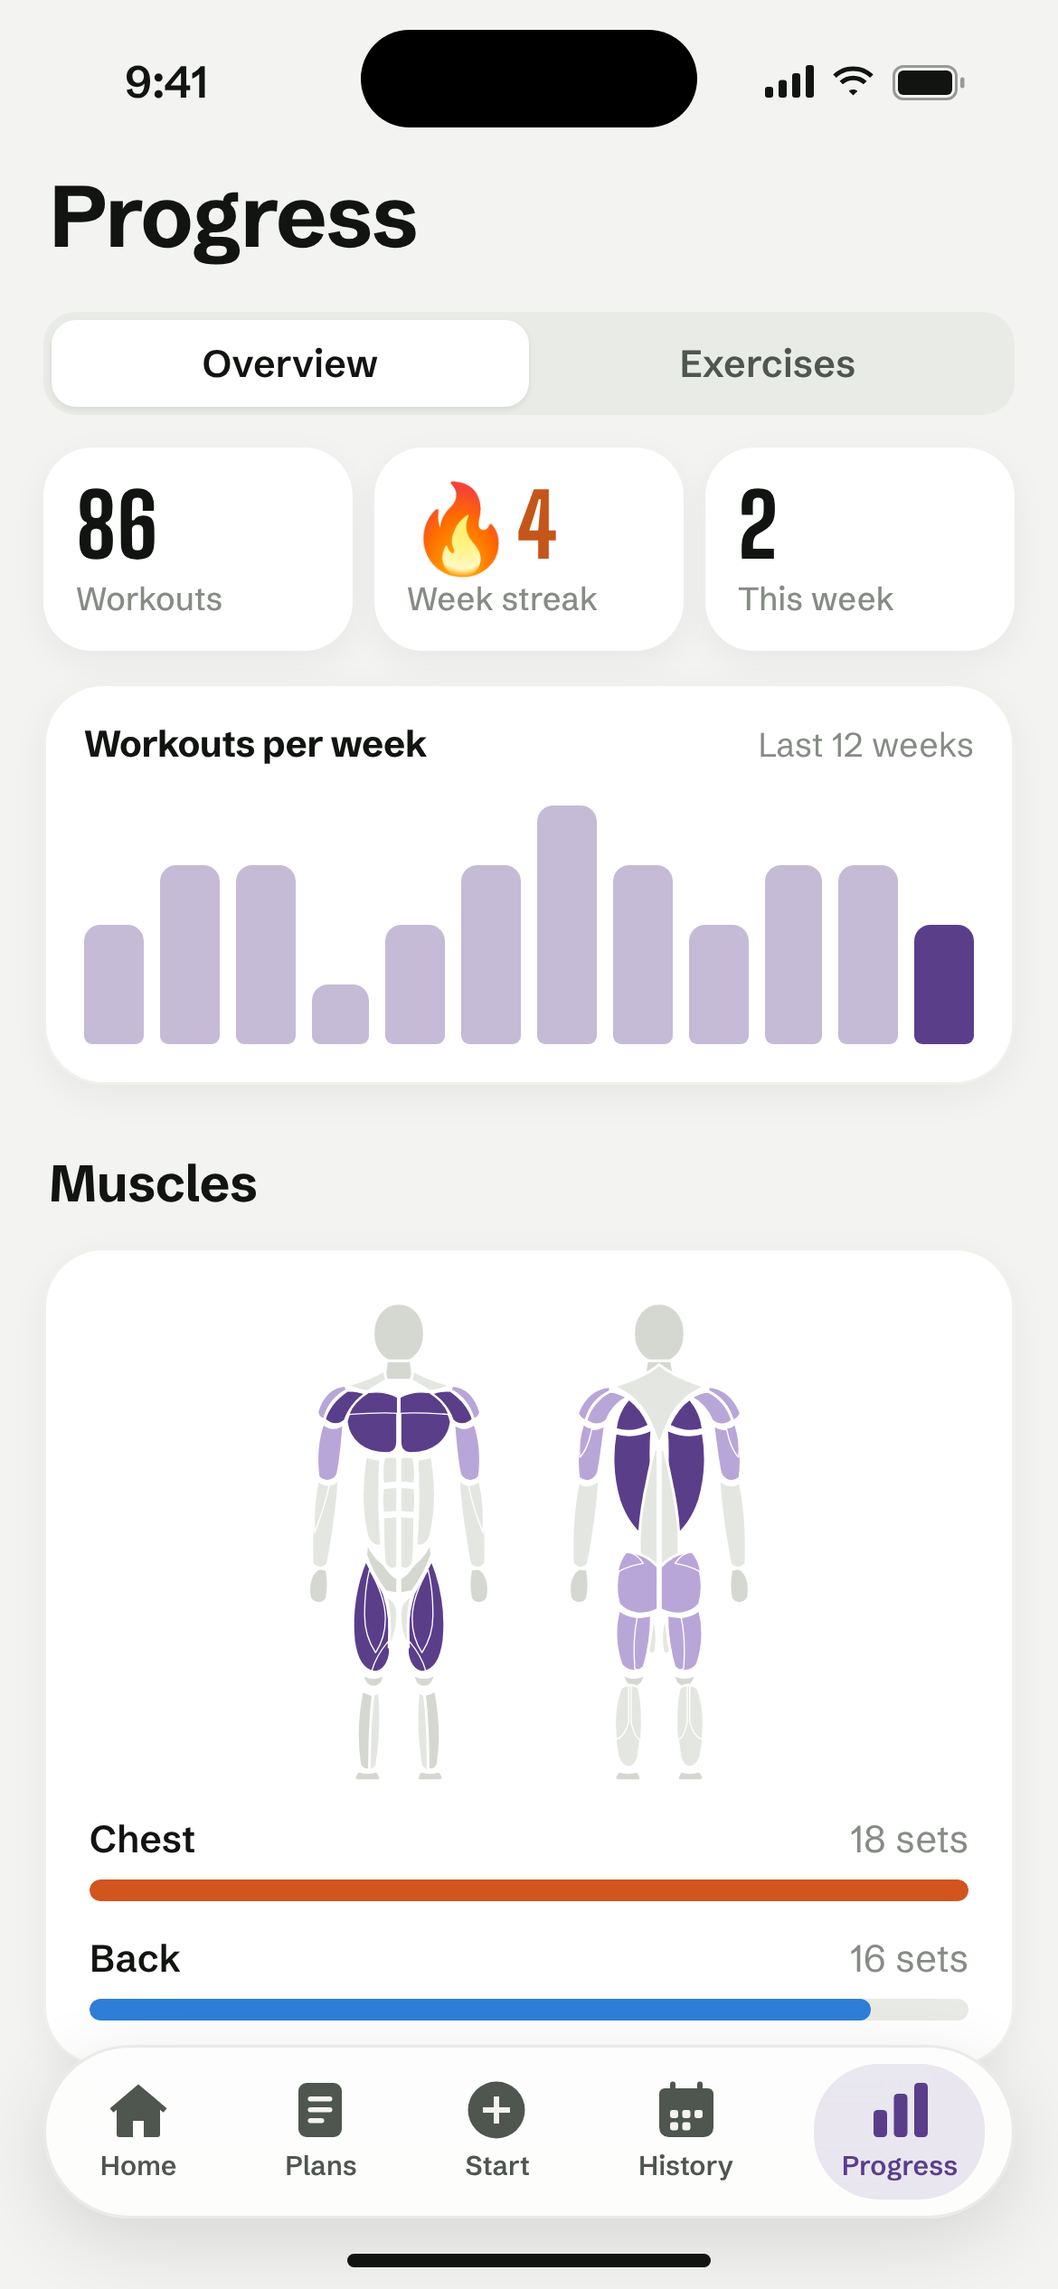
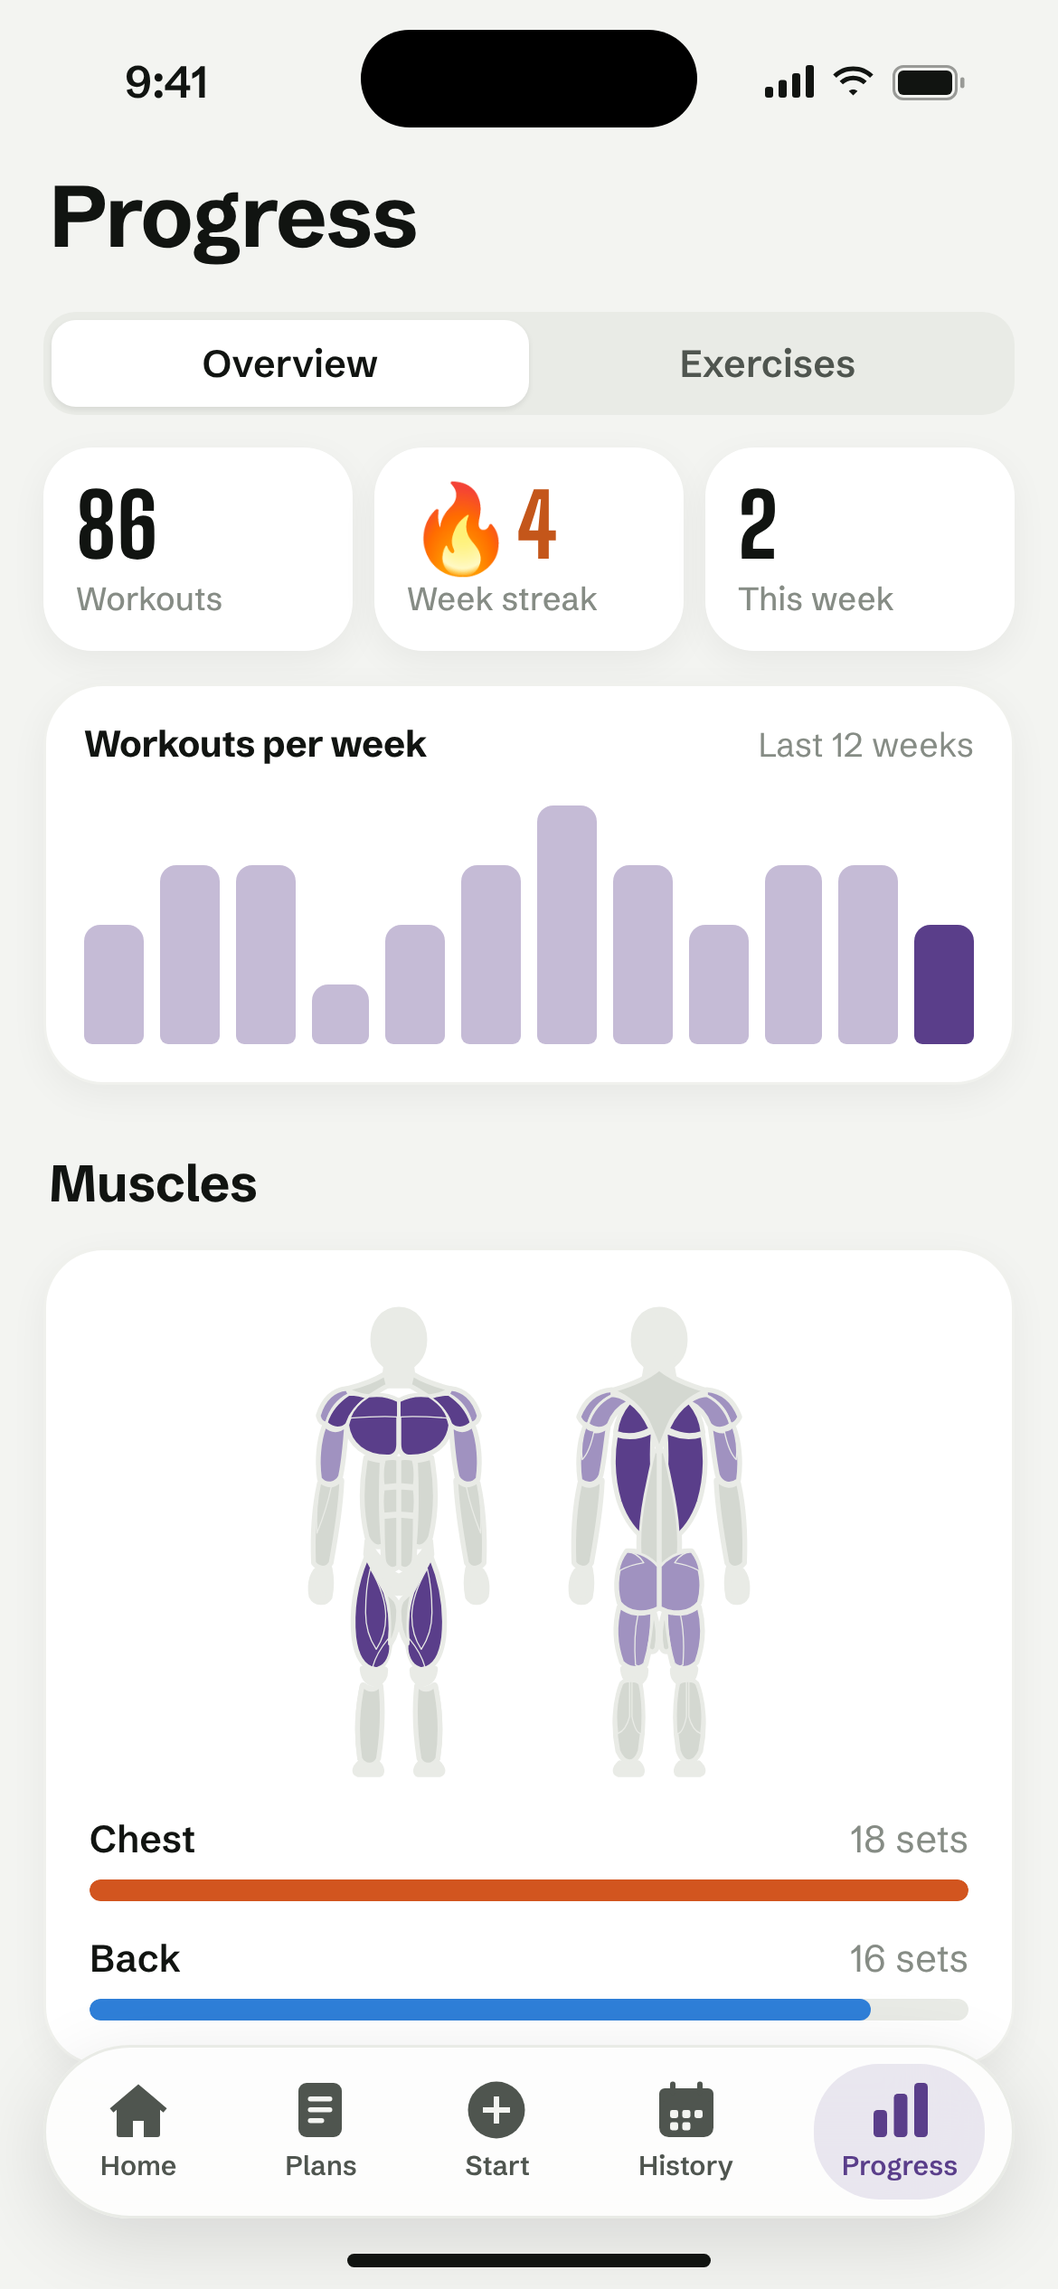
Remake the muscle view: one-piece body figure, accent shades per role
Muscles worked card gets a larger figure, sets bars and tap-to-highlight.
Mockups re-rendered.

Changed region(s): [[0.5231, 0.5928, 0.7077, 0.78], [0.2769, 0.5928, 0.4615, 0.78]]

diff --git a/Sources/Tally/Exercises/WorkoutMuscles.swift b/Sources/Tally/Exercises/WorkoutMuscles.swift
@@ -48,70 +48,117 @@ private extension MuscleRole {
     }
 }
 
-/// Front and back figure for a workout, beside the muscles it hits and how many sets each got.
+/// The workout's muscles on a large front and back figure, with a ranked list of sets per muscle
+/// underneath. Tapping a muscle on the figure or in the list picks it out on both.
 struct WorkoutMusclesCard: View {
     @Environment(GymStore.self) private var gym
     let workout: Workout
-    /// Colour of the gaps between muscles; match the background behind the card.
-    var gap: Color = Theme.card
+
+    @State private var selected: Muscle?
+    @State private var showingAll = false
+
+    /// Rows shown before "Show all".
+    private let collapsedCount = 5
 
     var body: some View {
         let summary = WorkoutMuscles(workout, gym: gym)
         if !summary.entries.isEmpty {
-            VStack(alignment: .leading, spacing: 12) {
-                Text("Muscles worked").eyebrow(11)
-                HStack(alignment: .top, spacing: 14) {
-                    VStack(alignment: .leading, spacing: 7) {
-                        ForEach(summary.entries.prefix(7)) { entry in
-                            row(entry)
-                        }
-                        if summary.entries.count > 7 {
-                            Text("+\(summary.entries.count - 7) more")
-                                .font(Typo.body(12.5))
-                                .foregroundStyle(Theme.ink3)
-                        }
-                    }
-                    .frame(maxWidth: .infinity, alignment: .leading)
-                    AnatomyFigure(
-                        primary: summary.muscles(.primary),
-                        secondary: summary.muscles(.secondary),
-                        tertiary: summary.muscles(.tertiary),
-                        gap: gap,
-                        labels: true
-                    )
-                    .frame(height: 170)
-                    .accessibilityHidden(true)
+            let entries = summary.entries
+            let shown = showingAll ? entries : Array(entries.prefix(collapsedCount))
+            let scale = max(entries.map(\.sets).max() ?? 0, 1)
+            VStack(alignment: .leading, spacing: 14) {
+                HStack(alignment: .firstTextBaseline) {
+                    Text("Muscles worked").font(Typo.title(17)).foregroundStyle(Theme.ink)
+                    Spacer()
+                    Text(entries.count == 1 ? "1 muscle" : "\(entries.count) muscles")
+                        .font(Typo.body(13.5))
+                        .foregroundStyle(Theme.ink3)
                 }
-                HStack(spacing: 14) {
-                    ForEach(MuscleRole.allCases, id: \.self) { role in
-                        HStack(spacing: 5) {
-                            RoundedRectangle(cornerRadius: 3).fill(role.color).frame(width: 9, height: 9)
-                            Text(role.label).eyebrow(9.5).foregroundStyle(Theme.ink3)
-                        }
-                    }
-                }
+
+                AnatomyFigure(
+                    primary: summary.muscles(.primary),
+                    secondary: summary.muscles(.secondary),
+                    tertiary: summary.muscles(.tertiary),
+                    selected: selected,
+                    onTap: select,
+                    labels: true
+                )
+                .frame(height: 260)
+                .frame(maxWidth: .infinity)
+                .sensoryFeedback(.selection, trigger: selected)
                 .accessibilityHidden(true)
+
+                HStack(spacing: 16) {
+                    ForEach(MuscleRole.allCases, id: \.self) { role in
+                        HStack(spacing: 6) {
+                            Circle().fill(role.color).frame(width: 9, height: 9)
+                            Text(role.label).font(Typo.body(12.5, .medium)).foregroundStyle(Theme.ink2)
+                        }
+                    }
+                }
+                .frame(maxWidth: .infinity)
+                .accessibilityHidden(true)
+
+                VStack(spacing: 2) {
+                    ForEach(shown) { entry in
+                        row(entry, scale: scale)
+                    }
+                }
+
+                if entries.count > collapsedCount {
+                    Button {
+                        withAnimation(.snappy) { showingAll.toggle() }
+                    } label: {
+                        Text(verbatim: showingAll ? "Show less" : "Show all \(entries.count) muscles")
+                            .font(Typo.body(14, .semibold))
+                            .foregroundStyle(Theme.accent)
+                    }
+                    .buttonStyle(.plain)
+                }
             }
-            .animation(.snappy, value: summary.entries.map(\.muscle))
+            .animation(.snappy, value: entries.map(\.muscle))
         }
     }
 
-    private func row(_ entry: WorkoutMuscles.Entry) -> some View {
-        HStack(spacing: 8) {
-            RoundedRectangle(cornerRadius: 3).fill(entry.role.color).frame(width: 10, height: 10)
-            Text(entry.muscle.label)
-                .font(Typo.body(14.5, .semibold))
-                .foregroundStyle(Theme.ink)
-                .lineLimit(1)
-            Spacer(minLength: 4)
-            if entry.sets > 0 {
-                Text(VolumeZone.format(entry.sets) + (entry.sets == 1 ? " set" : " sets"))
-                    .font(Typo.body(12.5))
-                    .monospacedDigit()
-                    .foregroundStyle(Theme.ink3)
+    private func select(_ muscle: Muscle) {
+        withAnimation(.snappy) { selected = selected == muscle ? nil : muscle }
+    }
+
+    private func row(_ entry: WorkoutMuscles.Entry, scale: Double) -> some View {
+        Button { select(entry.muscle) } label: {
+            VStack(spacing: 7) {
+                HStack(alignment: .firstTextBaseline, spacing: 8) {
+                    Text(entry.muscle.label)
+                        .font(Typo.body(15, .semibold))
+                        .foregroundStyle(Theme.ink)
+                        .lineLimit(1)
+                    Text(entry.role.label)
+                        .font(Typo.body(12.5))
+                        .foregroundStyle(Theme.ink3)
+                    Spacer(minLength: 4)
+                    Text(entry.sets > 0 ? VolumeZone.format(entry.sets) + (entry.sets == 1 ? " set" : " sets") : "No sets")
+                        .font(Typo.body(13.5))
+                        .monospacedDigit()
+                        .foregroundStyle(Theme.ink2)
+                }
+                GeometryReader { proxy in
+                    ZStack(alignment: .leading) {
+                        Theme.line
+                        Capsule()
+                            .fill(entry.role.color)
+                            .frame(width: entry.sets > 0 ? max(proxy.size.width * CGFloat(entry.sets / scale), 6) : 0)
+                    }
+                    .clipShape(Capsule())
+                }
+                .frame(height: 6)
             }
+            .padding(.vertical, 7)
+            .padding(.horizontal, 10)
+            .background(selected == entry.muscle ? Theme.fill : .clear, in: .rect(cornerRadius: 12))
+            .contentShape(.rect)
         }
-        .accessibilityElement(children: .combine)
-        .accessibilityLabel("\(entry.muscle.label), \(entry.role.label.lowercased())")
+        .buttonStyle(.plain)
+        .padding(.horizontal, -10)
+        .accessibilityLabel("\(entry.muscle.label), \(entry.role.label.lowercased()), \(VolumeZone.format(entry.sets)) sets")
     }
 }

diff --git a/Sources/Tally/Exercises/Anatomy.swift b/Sources/Tally/Exercises/Anatomy.swift
@@ -116,11 +116,12 @@ enum MuscleRole: CaseIterable {
         }
     }
 
+    /// Shades of the accent, strongest for primary, so the figure reads like the weekly volume map.
     var color: Color {
         switch self {
-        case .primary: Color(light: 0xE0445F, dark: 0xFF6B86)
-        case .secondary: Color(light: 0xEE8A3C, dark: 0xFFA05C)
-        case .tertiary: Color(light: 0xE0B021, dark: 0xFFD966)
+        case .primary: Theme.accent
+        case .secondary: Theme.accent.mix(with: Theme.card, by: 0.45)
+        case .tertiary: Theme.accent.mix(with: Theme.card, by: 0.72)
         }
     }
 
@@ -206,14 +207,20 @@ struct AnatomyFigure: View {
     /// Working sets per week for each muscle. When set, muscles are shaded by volume zone instead of
     /// by role.
     var weeklySets: [Muscle: Double]?
-    /// Outlined, for the muscle being inspected.
+    /// Outlined, with the other muscles faded, for the muscle being inspected.
     var selected: Muscle?
-    /// Colour of the gaps between muscles; match the background behind the figure.
-    var gap: Color = Theme.card
     /// Makes muscles tappable (picking muscles for a custom exercise).
     var onTap: ((Muscle) -> Void)?
     /// "Front" and "Back" under the figures, for the larger sizes.
     var labels = false
+
+    /// The body behind the muscles, and the gaps between them.
+    static let skin = Theme.line
+    /// Muscles the workout or exercise doesn't touch.
+    static let untrained = Theme.line2
+    /// Room around the figure for the outline that rounds off the silhouette, in figure units.
+    private static let pad = 3.0
+    private static let aspect = (AnatomyShapes.width + pad * 2) / (AnatomyShapes.height + pad * 2)
 
     var body: some View {
         HStack(spacing: 0) {
@@ -236,38 +243,48 @@ struct AnatomyFigure: View {
 
     private func side(_ regions: [FigureRegion]) -> some View {
         let fills = regions.map { color($0.muscle) }
-        let gap = gap
         let selected = selected
+        let skin = Self.skin
         let outline = Theme.ink
+        let pad = Self.pad
         return Canvas { context, size in
-            let scale = size.width / AnatomyShapes.width
+            let scale = size.width / (AnatomyShapes.width + pad * 2)
             context.scaleBy(x: scale, y: scale)
+            context.translateBy(x: pad, y: pad)
+            // One continuous body first: every region filled and outlined thickly in skin colour,
+            // which closes the gaps at the joints and rounds off the outline.
+            for region in regions where !region.detail {
+                context.fill(region.path, with: .color(skin))
+                context.stroke(region.path, with: .color(skin), style: StrokeStyle(lineWidth: pad * 2, lineJoin: .round))
+            }
             // At least 0.4 pt on screen so small figures keep their muscle outlines.
-            let lineWidth = max(1.2, 0.4 / scale)
+            let lineWidth = max(1.6, 0.4 / scale)
             // Lines between muscle heads are finer, and left out where they'd only add noise.
-            let detailWidth = scale >= 0.4 ? max(0.7, 0.3 / scale) : 0
-            for (region, fill) in zip(regions, fills) {
-                context.fill(region.path, with: .color(fill))
+            let detailWidth = scale >= 0.4 ? max(0.8, 0.3 / scale) : 0
+            for (region, fill) in zip(regions, fills) where region.muscle != nil {
+                let faded = selected != nil && region.muscle != selected
+                context.fill(region.path, with: .color(faded ? fill.opacity(0.35) : fill))
                 let width = region.detail ? detailWidth : lineWidth
                 if width > 0 {
-                    context.stroke(region.path, with: .color(gap), style: StrokeStyle(lineWidth: width, lineJoin: .round))
+                    context.stroke(region.path, with: .color(skin), style: StrokeStyle(lineWidth: width, lineJoin: .round))
                 }
             }
             if let selected {
                 for region in regions where region.muscle == selected && !region.detail {
-                    context.stroke(region.path, with: .color(outline), style: StrokeStyle(lineWidth: lineWidth * 1.4, lineJoin: .round))
+                    context.stroke(region.path, with: .color(outline), style: StrokeStyle(lineWidth: lineWidth * 1.3, lineJoin: .round))
                 }
             }
         }
-        .aspectRatio(AnatomyShapes.width / AnatomyShapes.height, contentMode: .fit)
+        .aspectRatio(Self.aspect, contentMode: .fit)
         .overlay {
             if let onTap {
                 GeometryReader { proxy in
                     Color.clear
                         .contentShape(.rect)
                         .onTapGesture { location in
-                            let scale = proxy.size.width / AnatomyShapes.width
-                            if let muscle = Self.muscle(at: CGPoint(x: location.x / scale, y: location.y / scale), in: regions) {
+                            let scale = proxy.size.width / (AnatomyShapes.width + pad * 2)
+                            let point = CGPoint(x: location.x / scale - pad, y: location.y / scale - pad)
+                            if let muscle = Self.muscle(at: point, in: regions) {
                                 onTap(muscle)
                             }
                         }
@@ -289,15 +306,15 @@ struct AnatomyFigure: View {
     }
 
     private func color(_ muscle: Muscle?) -> Color {
-        // Head, hands, knees and feet sit back so the muscles read first.
-        guard let muscle else { return Theme.line.opacity(0.5) }
+        // Head, hands, knees and feet are part of the skin, so the muscles read first.
+        guard let muscle else { return Self.skin }
         if let weeklySets {
-            return VolumeZone(sets: weeklySets[muscle] ?? 0)?.color ?? Theme.line
+            return VolumeZone(sets: weeklySets[muscle] ?? 0)?.color ?? Self.untrained
         }
         if primary.contains(muscle) { return MuscleRole.primary.color }
         if secondary.contains(muscle) { return MuscleRole.secondary.color }
         if tertiary.contains(muscle) { return MuscleRole.tertiary.color }
-        return Theme.line
+        return Self.untrained
     }
 }
 
@@ -438,8 +455,8 @@ enum VolumeZone: CaseIterable {
 
     var color: Color {
         switch self {
-        case .light: Theme.accent.opacity(0.3)
-        case .maintenance: Theme.accent.opacity(0.62)
+        case .light: Theme.accent.mix(with: Theme.card, by: 0.72)
+        case .maintenance: Theme.accent.mix(with: Theme.card, by: 0.42)
         case .growth: Theme.accent
         case .high: Theme.hot
         }

diff --git a/scripts/mockups/screens.html b/scripts/mockups/screens.html
@@ -19,13 +19,13 @@
   --paper: #F3F4F1; --card: #FFFFFF; --ink: #111411; --ink2: #4F554F; --ink3: #868C85;
   --line: #E9EBE6; --line2: #D4D8D1; --fill: #F1F2EF; --good: #2C7748; --goodSoft: #DDF1E3; --danger: #B0382C;
   --hot: #C4561A; --accent: #5A3E8A; --accentInk: #FFFFFF; --accentSoft: #E8E1F2; --glass: rgba(255,255,255,.8);
-  --body: #D4D8D1; --muscle: #E4E7E1; --sec: #B9A6D8; --shadow: 0 4px 14px rgba(0,0,0,.05);
+  --body: #E9EBE6; --muscle: #D4D8D1; --sec: color-mix(in oklab, var(--accent) 55%, var(--card)); --ter: color-mix(in oklab, var(--accent) 28%, var(--card)); --shadow: 0 4px 14px rgba(0,0,0,.05);
 }
 .dark {
   --paper: #0B0D0B; --card: #171A17; --ink: #EEF0EC; --ink2: #B2B8AF; --ink3: #858C83;
   --line: #252925; --line2: #363C36; --fill: #222622; --good: #6CCB8C; --goodSoft: #16301F; --danger: #F0897D;
   --hot: #F5A167; --accent: #B9A0E6; --accentInk: #1B1229; --accentSoft: #2A2240; --glass: rgba(30,34,30,.8);
-  --body: #363C36; --muscle: #2A2F2A; --sec: #5E4E80; --shadow: none;
+  --body: #252925; --muscle: #363C36; --sec: color-mix(in oklab, var(--accent) 55%, var(--card)); --ter: color-mix(in oklab, var(--accent) 28%, var(--card)); --shadow: none;
 }
 
 * { box-sizing: border-box; margin: 0; padding: 0; }
@@ -390,15 +390,18 @@ const NS = 'http://www.w3.org/2000/svg';
 const heat = { chest: 'g', frontDelts: 'g', triceps: 's', quads: 'g', glutes: 's', lats: 'g', upperBack: 'g', biceps: 's', hamstrings: 's', rearDelts: 's', sideDelts: 's' };
 function draw(svg, view, fill) {
   const g = document.createElementNS(NS, 'g');
-  ANATOMY[view].forEach(([m, d, detail]) => {
+  const path = (d, attrs) => {
     const p = document.createElementNS(NS, 'path');
     p.setAttribute('d', d);
-    p.setAttribute('fill', fill(m));
-    p.setAttribute('stroke', svg.classList.contains('heat') ? 'var(--card)' : 'var(--fill)');
-    // Lines between the heads of one muscle are finer than the gaps between muscles.
-    p.setAttribute('stroke-width', detail ? '1' : '2.2');
     p.setAttribute('stroke-linejoin', 'round');
+    Object.entries(attrs).forEach(([k, v]) => p.setAttribute(k, v));
     g.append(p);
+  };
+  // One continuous body first (AnatomyFigure's skin), then the muscles with skin-coloured gaps.
+  ANATOMY[view].forEach(([m, d, detail]) => { if (!detail) path(d, { fill: 'var(--body)', stroke: 'var(--body)', 'stroke-width': 6 }); });
+  ANATOMY[view].forEach(([m, d, detail]) => {
+    // Lines between the heads of one muscle are finer than the gaps between muscles.
+    if (m) path(d, { fill: fill(m), stroke: 'var(--body)', 'stroke-width': detail ? 1 : 2.2 });
   });
   return g;
 }
@@ -414,11 +417,11 @@ document.querySelectorAll('svg.fig').forEach(svg => {
     return 'var(--muscle)';
   };
   if (svg.dataset.view) {
-    svg.setAttribute('viewBox', '0 0 200 400');
+    svg.setAttribute('viewBox', '-3 -3 206 406');
     svg.append(draw(svg, svg.dataset.view, fill));
   } else {
     // Badge: front and back side by side.
-    svg.setAttribute('viewBox', '0 0 400 400');
+    svg.setAttribute('viewBox', '-3 -3 406 406');
     svg.append(draw(svg, 'front', fill));
     const back = draw(svg, 'back', fill);
     back.setAttribute('transform', 'translate(200 0)');

diff --git a/Sources/Tally/About/Changelog.swift b/Sources/Tally/About/Changelog.swift
@@ -32,6 +32,7 @@ enum Changelog {
             "The week chart shows how far over or under your goal and maintenance you were, and the weight change that adds up to.",
             "Food goals show your daily deficit and the date you'd reach your goal weight.",
             "New look: cleaner white cards, sentence-case headings, a calmer Home with a greeting, a simpler week card, one row of tools and Today and Training sections.",
+            "Muscle view remade: the body is one soft figure, muscles are shaded in your accent colour (primary, secondary, tertiary), and the Muscles worked card has a bigger figure with sets bars. Tap a muscle on the figure or in the list to pick it out.",
         ]),
         ChangelogEntry(version: "0.8", date: DateComponents(year: 2026, month: 10, day: 27), changes: [
             "Sleep: naps are kept apart from the night, so a nap on the sofa no longer spoils the score.",

diff --git a/Sources/Tally/Views/Components.swift b/Sources/Tally/Views/Components.swift
@@ -253,8 +253,7 @@ struct ExerciseBadge: View {
         AnatomyFigure(
             primary: Set(exercise?.primary ?? []),
             secondary: Set(exercise?.secondary ?? []),
-            tertiary: Set(exercise?.tertiary ?? []),
-            gap: Theme.fill
+            tertiary: Set(exercise?.tertiary ?? [])
         )
         .padding(size * 0.07)
         .frame(width: size, height: size)
